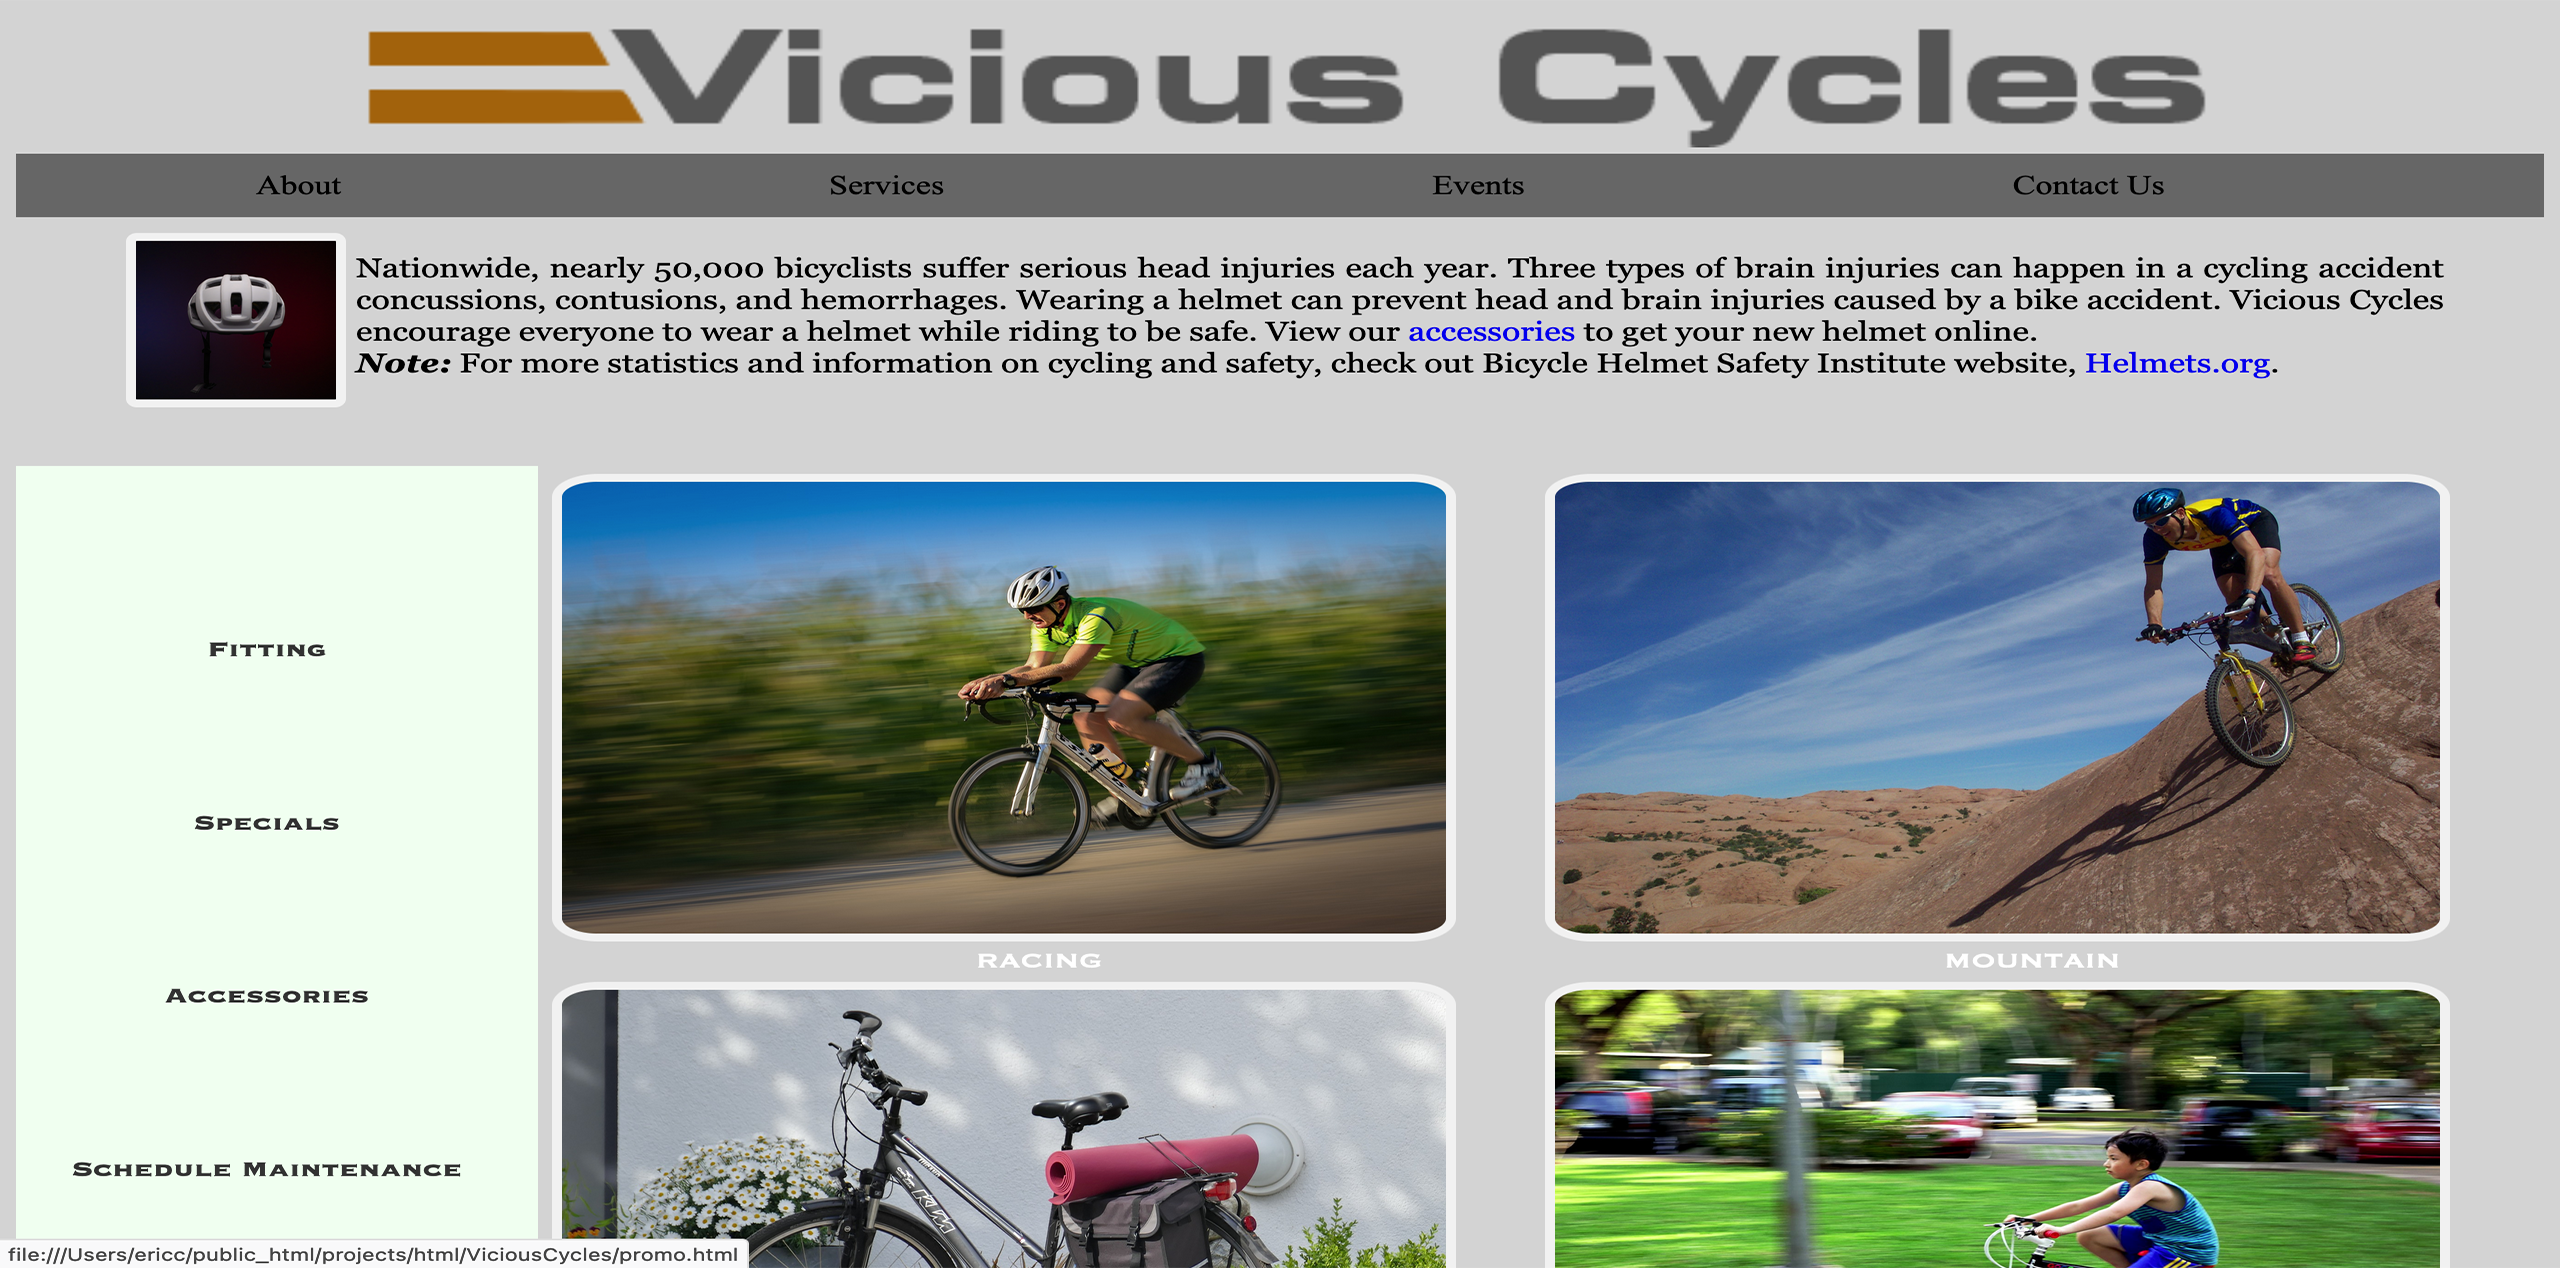
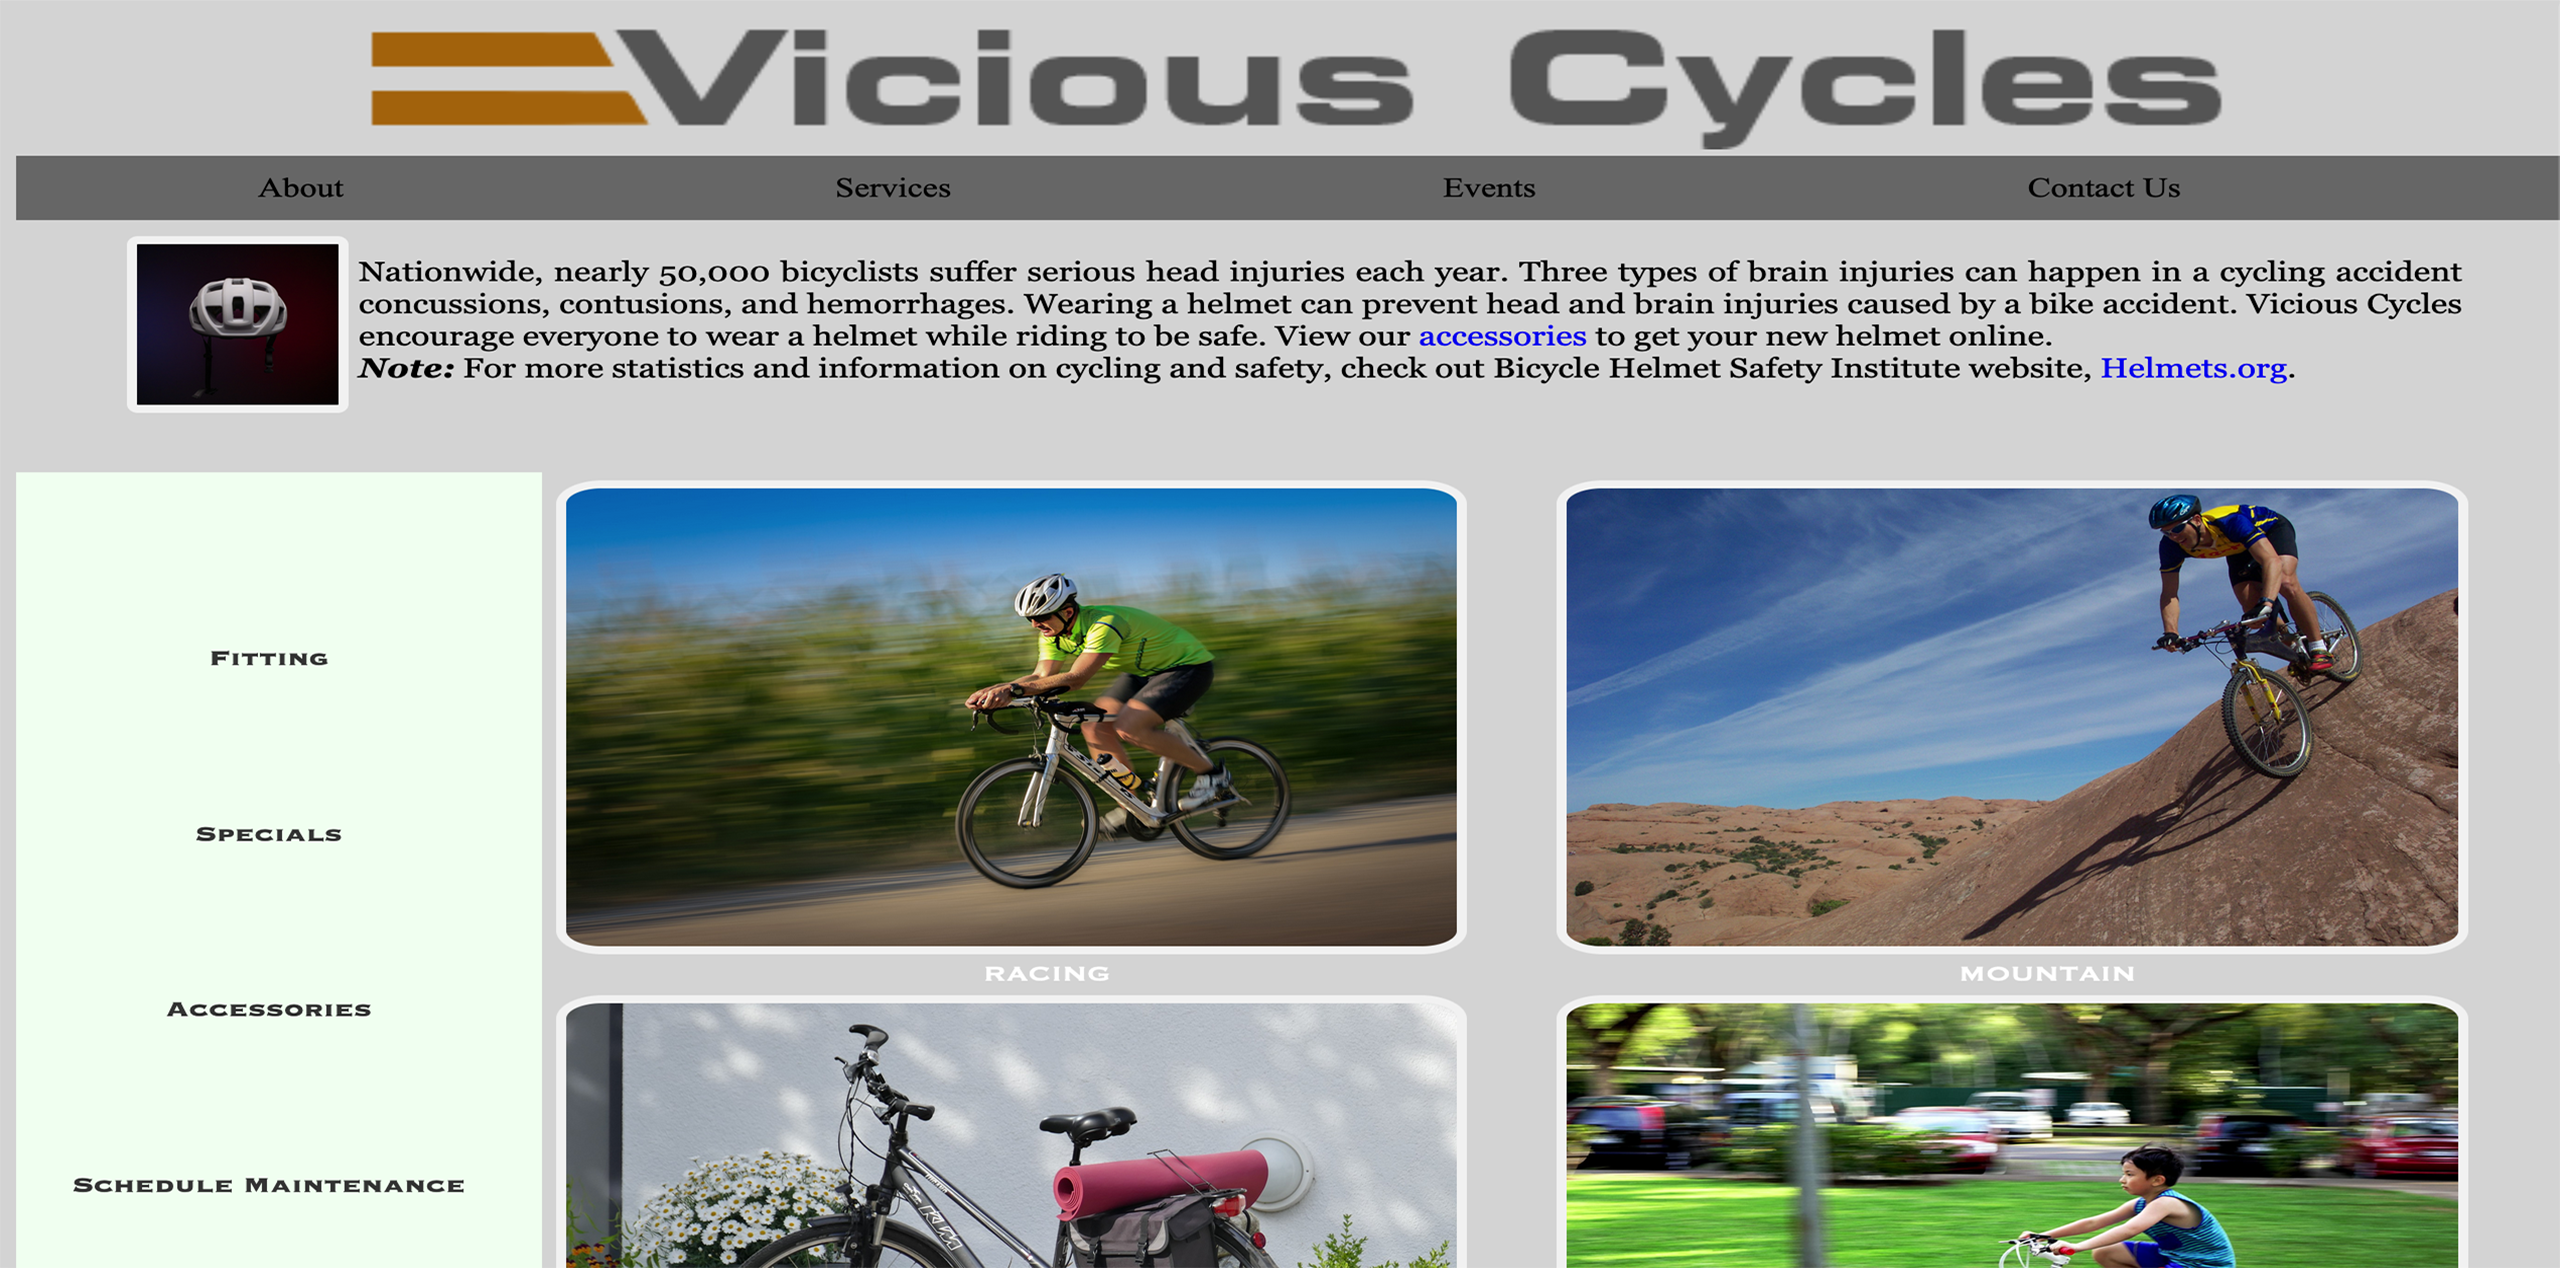
update

diff --git a/css/styles.css b/css/styles.css
@@ -6,3 +6,7 @@ header {
 section {
   background-color: azure;
 }
+img {
+  height: 100px;
+  width: 100px;
+}
